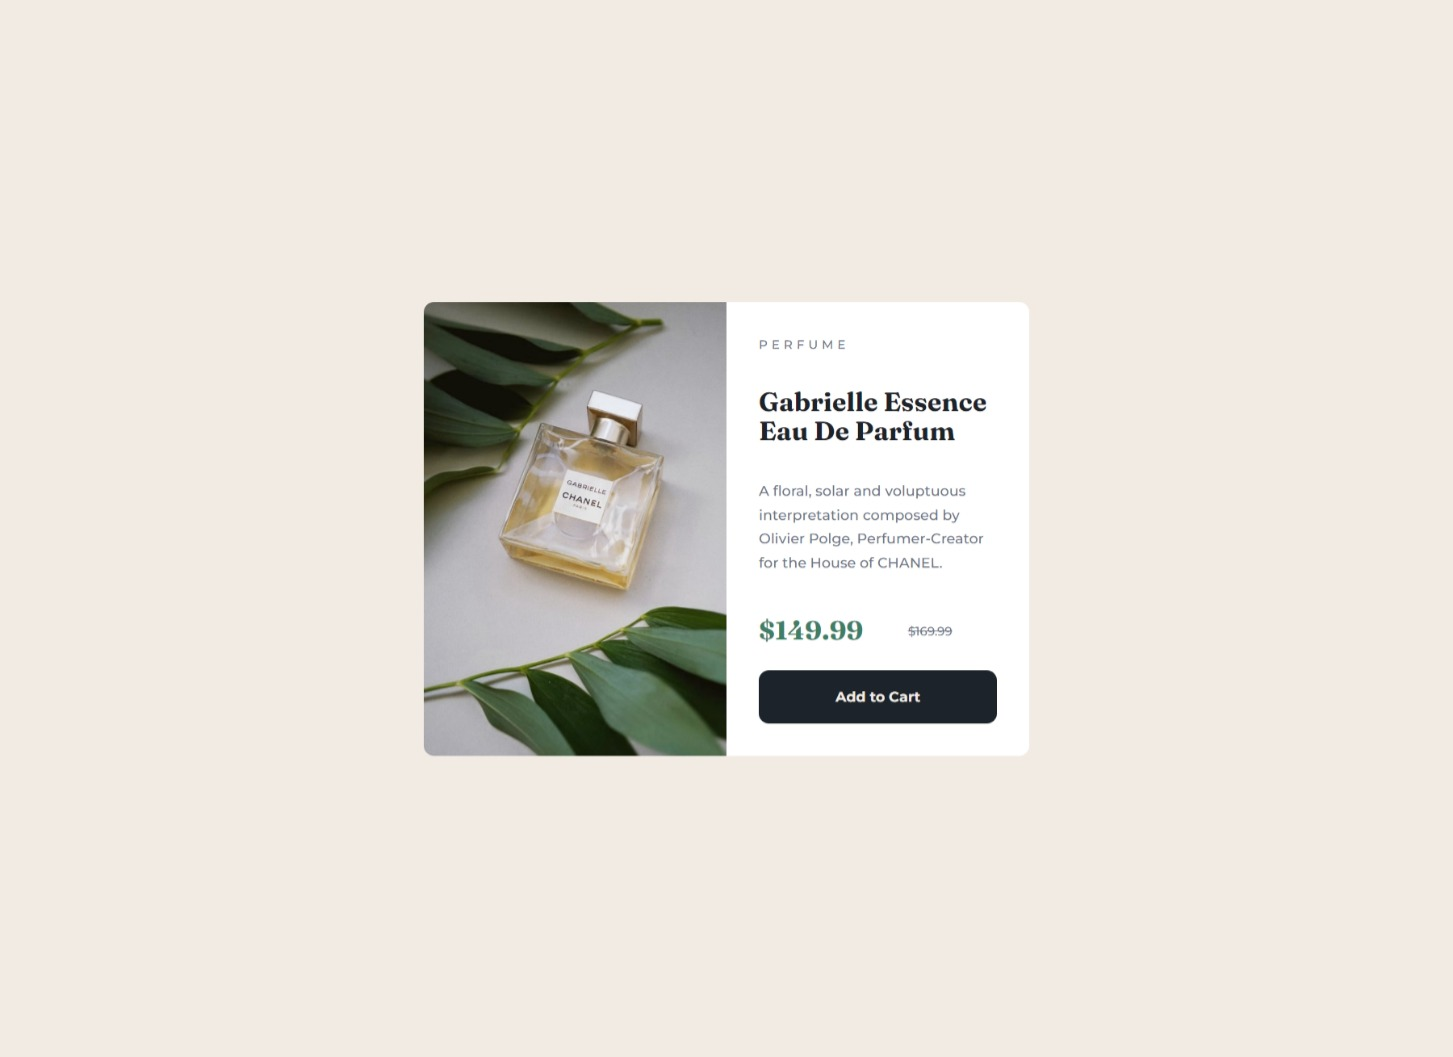
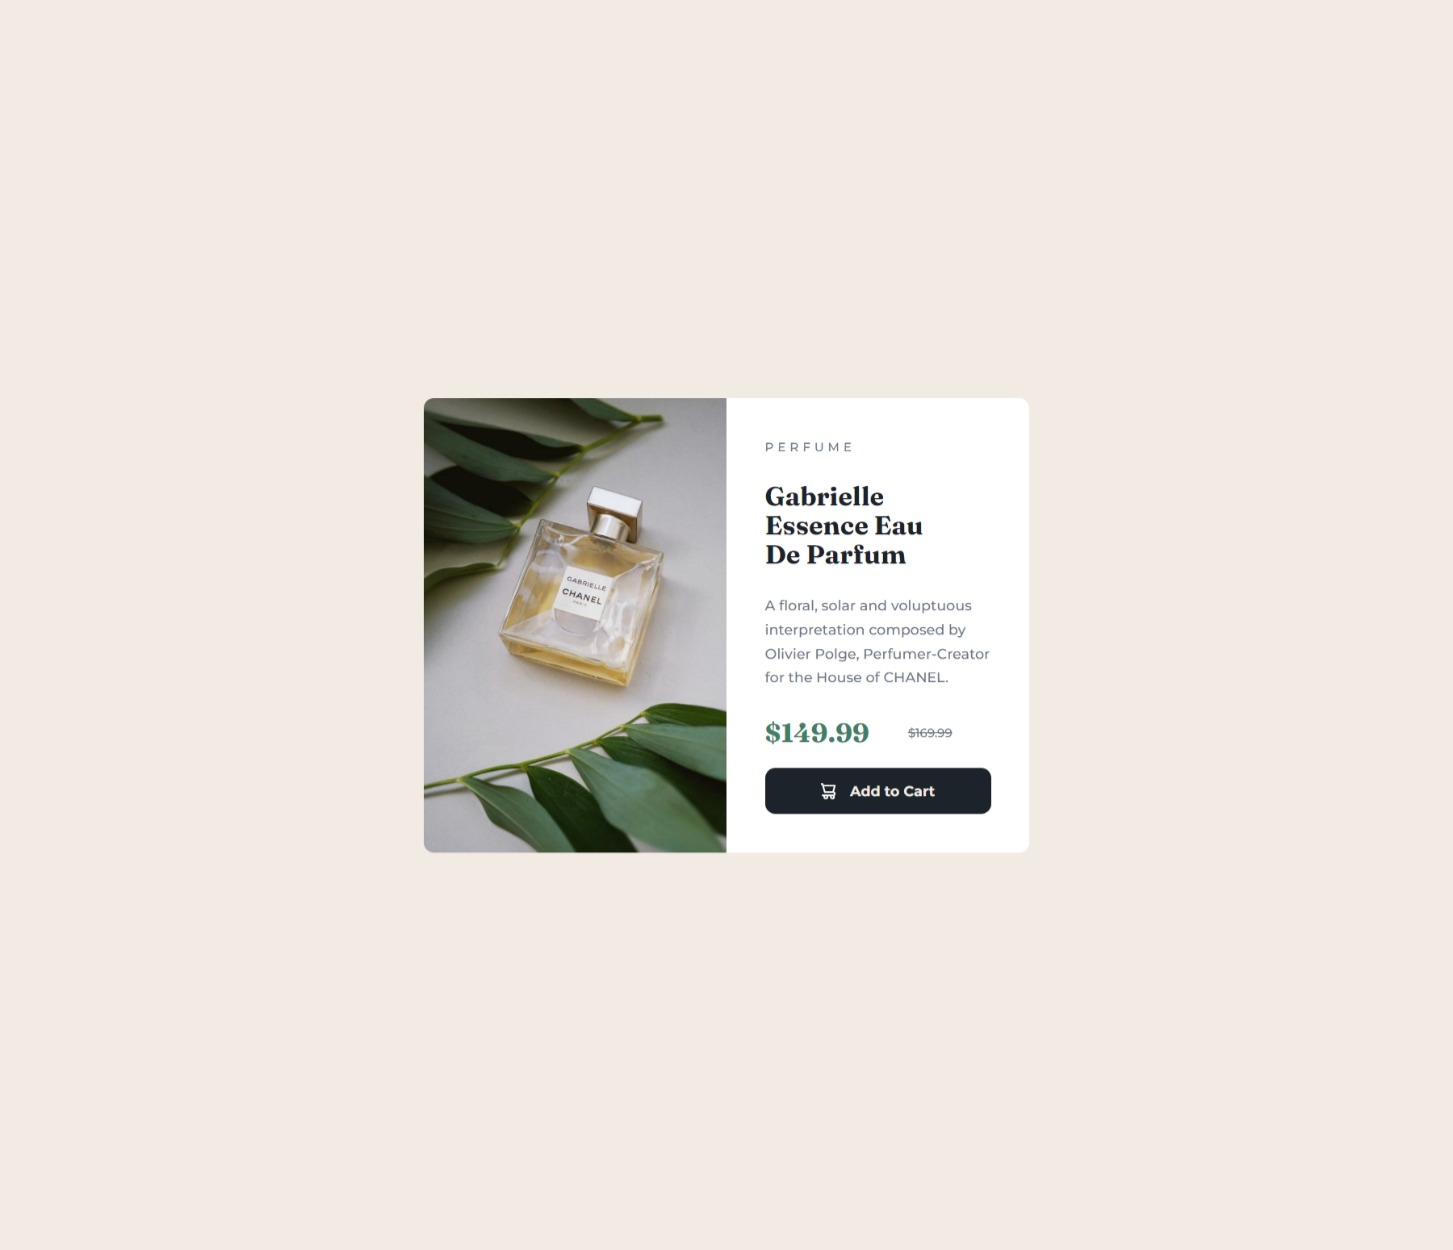
Update

Changed region(s): [[0.2787, 0.281, 0.7123, 0.7181]]

diff --git a/style.css b/style.css
@@ -118,6 +118,7 @@ button {
   display: inline-flex;
   justify-content: center;
   align-items: center;
+  gap: 0.875rem;
   cursor: pointer;
   text-align: center;
   background-color: var(--clr-accent);
@@ -133,6 +134,13 @@ button:focus {
   color: var(--clr-primary);
 }
 
+.button[data-attribute="cart"]::before {
+  content: "";
+  background-image: url("images/icon-cart.svg");
+  height: 16px;
+  width: 15px;
+}
+
 /* DESKTOP VIEW */
 
 @media (min-width: 600px) {
@@ -143,6 +151,10 @@ button:focus {
   .product {
     display: grid;
     grid-template-columns: 50% 50%;
+  }
+
+  .product__content {
+    padding: 2.375rem;
   }
 }
 

diff --git a/index.html b/index.html
@@ -33,7 +33,8 @@
             <h1 class="product__price__sale | ff-heading fs-heading text-accent">$149.99</h1>
             <p class="product__price__original | ff-body fs-keme text-neutral-secondary"><s>$169.99</s></p>
           </div>
-          <button class="button | ff-body fs-body fw-bold text-primary-secondary">Add to Cart</button>
+          <button class="button | ff-body fs-body fw-bold text-primary-secondary" data-attribute="cart">Add to
+            Cart</button>
         </div>
       </div>
     </article>
